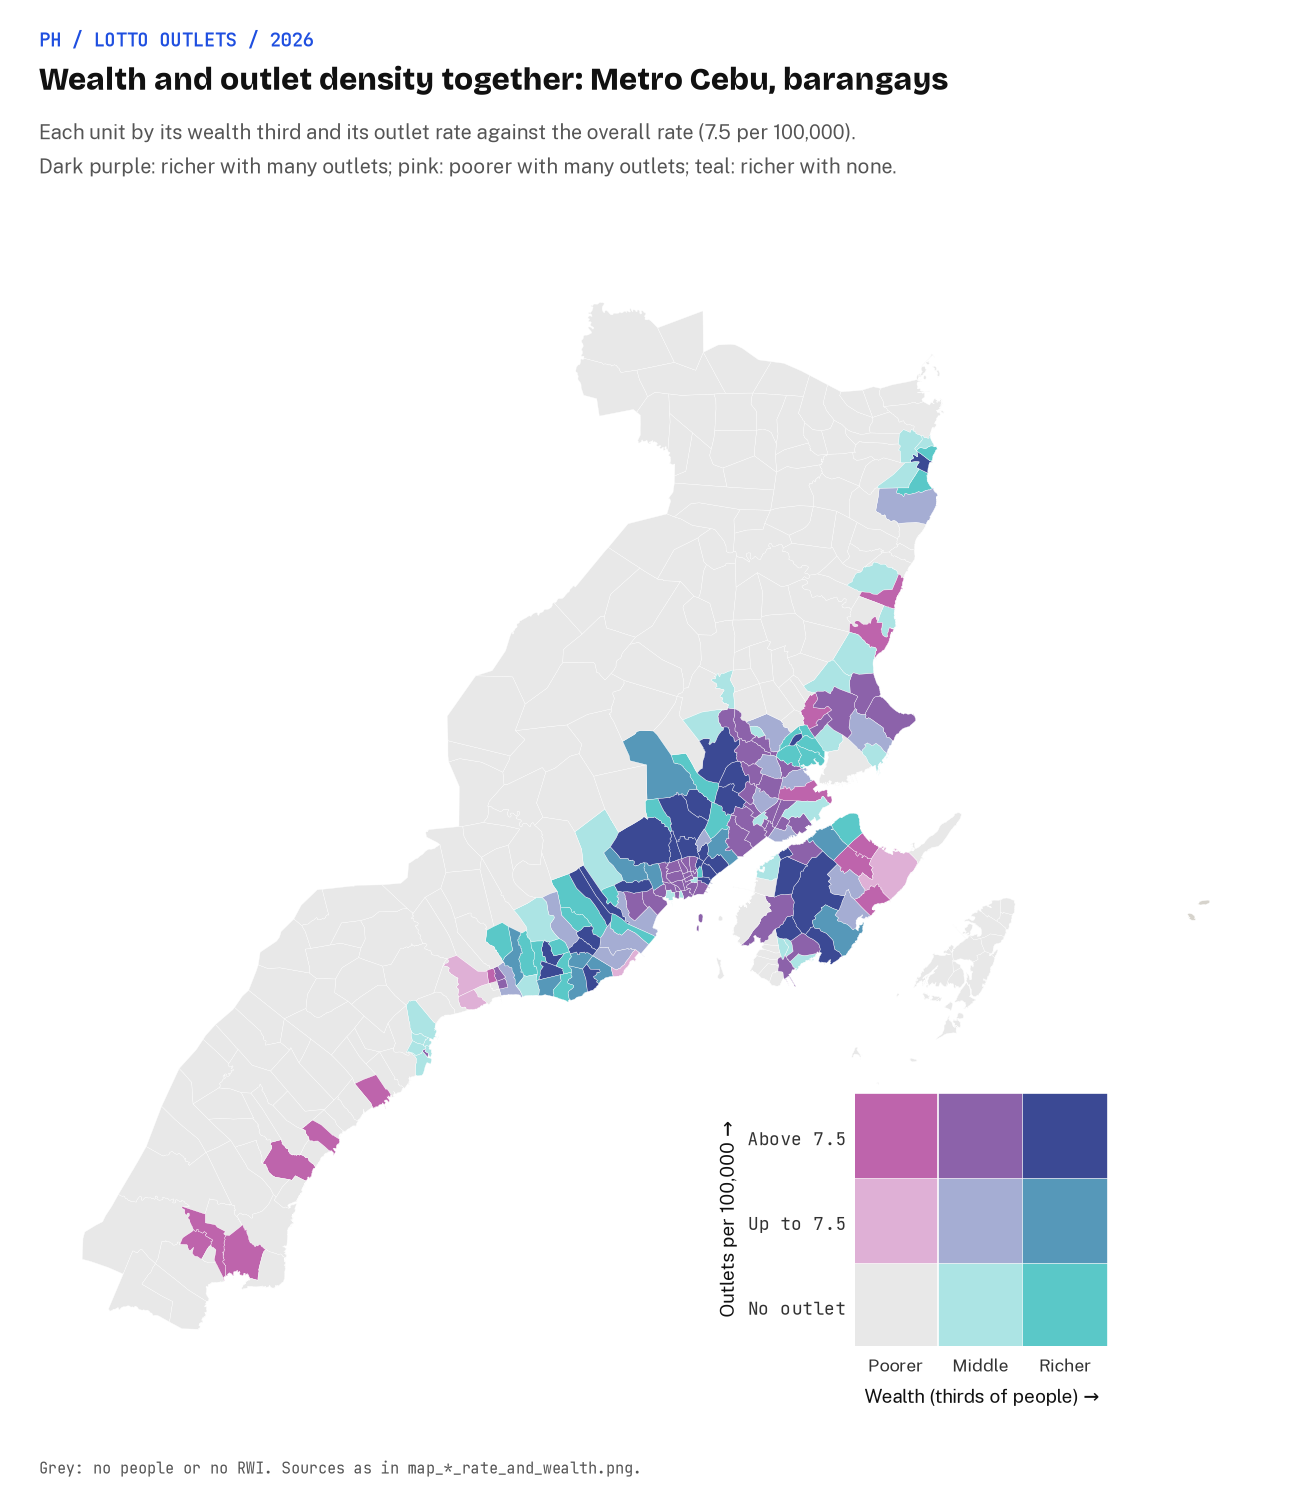
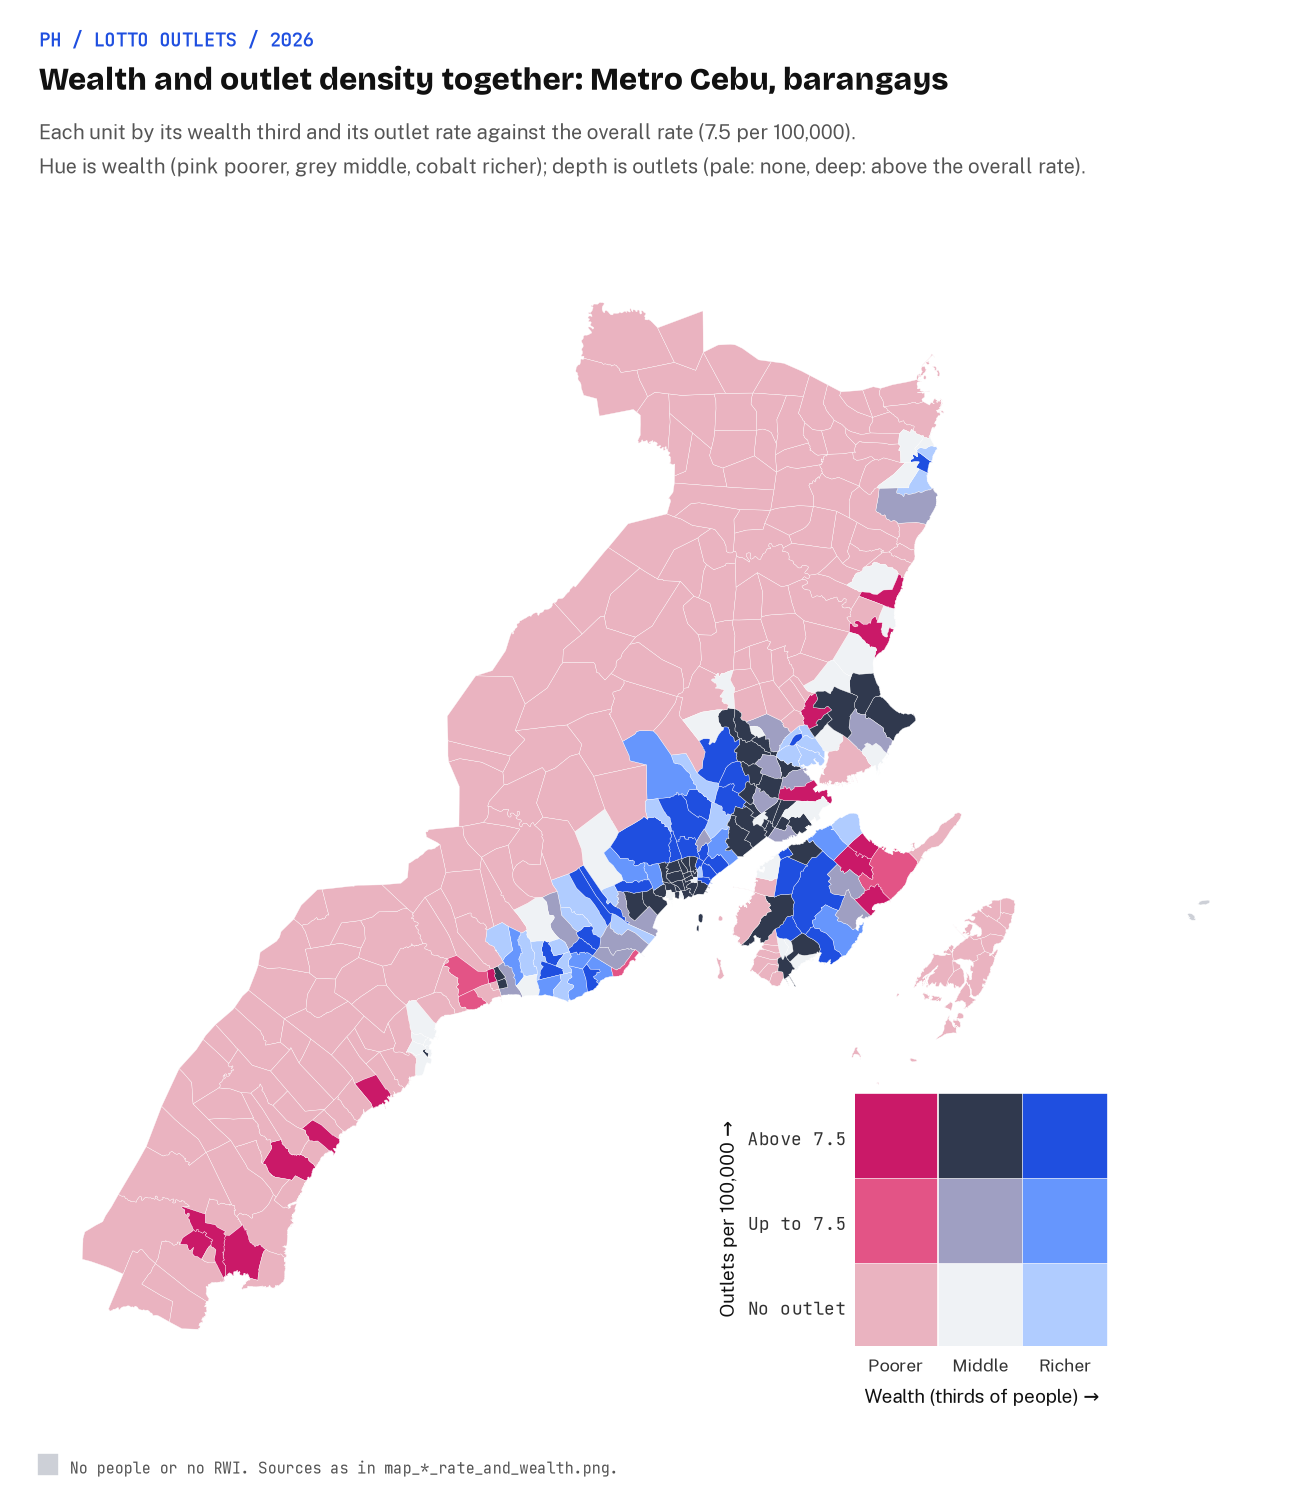
feat: Riso data palette for the static and web maps
- Put the Atlas data palette (Riso: cobalt and fluoro pink, cool greys) in src/shared/atlas.py;
  map_layers.py takes the maps' colours from it.
- Write the web map's colours to docs/map/palette.js from map_layers.py, so both maps share one
  palette.
- Tune the bivariate middle column (a faint cool tint) and pale cells so every pair of the 9
  cells is 8.8 or more apart in all four visions (was 4.2), checked by src/shared/palette_check.py.
- Residual hot spots use cobalt, sky, pink and amber, with no teal beside the pink.
- Redraw the eight maps and update the captions and readings that name colours.

diff --git a/docs/map/index.html b/docs/map/index.html
@@ -114,6 +114,8 @@ body.embed .standalone{display:none}
 </aside>
 <div id="map"></div>
 
+<!-- RATE, RWI, BIV and LISA: the Atlas data palette, written from src/shared/map_layers.py -->
+<script src="palette.js"></script>
 <script>
 // ?embed: shown inside the story page, which carries the title and the model table
 if (new URLSearchParams(location.search).has("embed")) document.body.classList.add("embed");
@@ -122,15 +124,10 @@ const protocol = new pmtiles.Protocol();
 maplibregl.addProtocol("pmtiles", protocol.tile);
 const here = (p) => "pmtiles://" + new URL(p, location.href).href;
 
-const RATE = ["#e7e1d3", "#cde2fb", "#9ec5f4", "#5598e7", "#256abf", "#104281"];
 const RATE_BREAKS = [5, 10, 20, 40];
-const RWI = ["#8c510a", "#d8b365", "#f6e8c3", "#f0efec", "#c7eae5", "#5ab4ac", "#01665e"];
 const RWI_BREAKS = [-0.75, -0.35, -0.1, 0.1, 0.35, 0.75];
-// Wealth tercile (w1 poorest .. w3 richest) x outlet level (o0 none, o1 at or below the
-// scope's overall rate, o2 above it)
-const BIV = {w1o0:"#e8e8e8", w2o0:"#ace4e4", w3o0:"#5ac8c8", w1o1:"#dfb0d6", w2o1:"#a5add3",
-             w3o1:"#5698b9", w1o2:"#be64ac", w2o2:"#8c62aa", w3o2:"#3b4994"};
-const LISA = {"High-High":"#d7191c", "Low-Low":"#2c7bb6", "High-Low":"#fdae61", "Low-High":"#abd9e9"};
+// BIV keys: wealth tercile (w1 poorest .. w3 richest) x outlet level (o0 none, o1 at or below
+// the scope's overall rate, o2 above it)
 
 function fill(measure) {
   if (measure === "rate") {

diff --git a/docs/map/palette.js b/docs/map/palette.js
@@ -1,0 +1,5 @@
+// Written by src/04_build_map/write_web_palette.py from src/shared/map_layers.py; do not edit.
+const RATE = ["#EBECEF", "#A6C4FF", "#739EFC", "#4577F0", "#1F4FE0", "#173295"];
+const RWI = ["#CA1968", "#ED5F90", "#FCBDCD", "#EDEEF1", "#C3D8FF", "#6E9BFB", "#1F4FE0"];
+const BIV = {"w1o0": "#EAB3C0", "w2o0": "#EFF2F5", "w3o0": "#B0CCFF", "w1o1": "#E35486", "w2o1": "#9F9FC2", "w3o1": "#6696FD", "w1o2": "#CA1968", "w2o2": "#30394E", "w3o2": "#1F4FE0"};
+const LISA = {"High-High": "#1F4FE0", "High-Low": "#3FA7D6", "Low-Low": "#E8407A", "Low-High": "#E8A317"};

diff --git a/src/shared/palette_check.py b/src/shared/palette_check.py
@@ -1,0 +1,85 @@
+#!/usr/bin/env python3
+"""
+Colour-blind checks for the map palette in map_layers.py, the method of the Atlas palette
+review (4 Nov 2026):
+
+- Colour difference is Euclidean distance in OKLab x 100 (about 1 is a just-visible step).
+- Colour-blind vision is simulated with Machado, Oliveira and Fernandes (2009) at severity 100,
+  through colorspacious, for deuteranopia, protanopia and tritanopia.
+- Each check reports its worst case across normal vision and the three simulations.
+  8 or more is the target, 6 to 8 the floor.
+
+Checks: the outlet ramp (light to dark in every vision, closest adjacent steps), the wealth
+scale (closest adjacent steps, the two poles at matching depth), the 9 bivariate cells (closest
+pair), and the categorical set (closest adjacent pair, and the closest pair among the colours a
+map puts side by side).
+
+Usage:  .venv/bin/python src/shared/palette_check.py
+"""
+import itertools
+import warnings
+
+import numpy as np
+from colorspacious import cspace_convert
+
+import atlas
+import map_layers as ml
+
+VISIONS = {"normal": None, "deutan": "deuteranomaly", "protan": "protanomaly", "tritan": "tritanomaly"}
+_M1 = np.array([[0.4122214708, 0.5363325363, 0.0514459929], [0.2119034982, 0.6806995451, 0.1073969566],
+                [0.0883024619, 0.2817188376, 0.6299787005]])
+_M2 = np.array([[0.2104542553, 0.7936177850, -0.0040720468], [1.9779984951, -2.4285922050, 0.4505937099],
+                [0.0259040371, 0.7827717662, -0.8086757660]])
+
+
+def _oklab(hex_colour, vision):
+    rgb = np.array([int(hex_colour.lstrip("#")[i:i + 2], 16) / 255 for i in (0, 2, 4)])
+    if VISIONS[vision]:
+        with warnings.catch_warnings():
+            warnings.simplefilter("ignore")
+            rgb = cspace_convert(rgb, {"name": "sRGB1+CVD", "cvd_type": VISIONS[vision], "severity": 100}, "sRGB1")
+        rgb = np.clip(rgb, 0, 1)
+    lin = np.where(rgb <= 0.04045, rgb / 12.92, ((rgb + 0.055) / 1.055) ** 2.4)
+    return _M2 @ np.cbrt(_M1 @ lin)
+
+
+def delta_e(a, b, vision="normal"):
+    return float(np.linalg.norm(_oklab(a, vision) - _oklab(b, vision)) * 100)
+
+
+def _worst(pairs):
+    """The smallest difference over the pairs and the four visions, with where it happens."""
+    return min((delta_e(a, b, v), f"{na}/{nb}", v) for (na, a), (nb, b) in pairs for v in VISIONS)
+
+
+def _named(colours):
+    return [(c, c) for c in colours]
+
+
+def checks(rate=None, rwi=None, biv=None, categorical=None, map_categorical=None, no_outlet=None):
+    rate = rate or ml.RATE
+    rwi = rwi or ml.RWI
+    biv = biv or ml.BIV
+    categorical = categorical or atlas.CATEGORICAL
+    map_categorical = map_categorical or list(ml.LISA.values())
+    no_outlet = no_outlet or ml.RATE_NONE
+    ramp = [no_outlet, *rate]
+    monotone = all(all(_oklab(b, v)[0] < _oklab(a, v)[0] for a, b in itertools.pairwise(ramp)) for v in VISIONS)
+    return {
+        "Outlet ramp light to dark in all 4 visions": "yes" if monotone else "no",
+        "Outlet ramp, closest adjacent steps": _worst(itertools.pairwise(_named(ramp))),
+        "Wealth scale, closest adjacent steps": _worst(itertools.pairwise(_named(rwi))),
+        "Wealth poles at matching depth": _worst([((rwi[i], rwi[i]), (rwi[-1 - i], rwi[-1 - i])) for i in range(3)]),
+        "Bivariate, closest of 9 cells": _worst(itertools.combinations(biv.items(), 2)),
+        "Categorical, adjacent": _worst(itertools.pairwise(_named(categorical))),
+        "Map categorical, any pair": _worst(itertools.combinations(_named(map_categorical), 2)),
+    }
+
+
+def show(results):
+    for name, r in results.items():
+        print(f"{name}: {r if isinstance(r, str) else f'{r[0]:.1f} ({r[2]}, {r[1]})'}")
+
+
+if __name__ == "__main__":
+    show(checks())

diff --git a/src/03_analyse/maps.py b/src/03_analyse/maps.py
@@ -151,13 +151,16 @@ def bivariate_map(scope):
         fig = _figure(SIZE[scope][1])
         top = atlas.heading(fig, f"Wealth and outlet density together: {TITLE[scope]}",
                             "Each unit by its wealth third and its outlet rate against the overall rate "
-                            f"({overall:.1f} per 100,000).\nDark purple: richer with many outlets; pink: poorer "
-                            "with many outlets; teal: richer with none.", x=0.03)
+                            f"({overall:.1f} per 100,000).\nHue is wealth (pink poorer, grey middle, cobalt richer); "
+                            "depth is outlets (pale: none, deep: above the overall rate).", x=0.03)
         ax = fig.add_axes((0.02, 0.05, 0.96, top - 0.06))
         _draw(ax, g, colours, scope)
         _bivariate_key(fig, KEY[scope], overall)
-        fig.text(0.03, 0.015, "Grey: no people or no RWI. Sources as in map_*_rate_and_wealth.png.",
-                 color=atlas.MUTED, **atlas.mono(6.5))
+        h = 0.11 / fig.get_figheight()  # a swatch about 0.11 inch high, as tall as the text
+        fig.patches.append(Rectangle((0.03, 0.015), h * fig.get_figheight() / fig.get_figwidth(), h,
+                                     transform=fig.transFigure, color=NO_PEOPLE, figure=fig))
+        fig.text(0.03 + 0.18 / fig.get_figwidth(), 0.015, "No people or no RWI. Sources as in "
+                 "map_*_rate_and_wealth.png.", color=atlas.MUTED, **atlas.mono(6.5))
         path = FIGURES / f"map_{scope}_bivariate.png"
         fig.savefig(path, dpi=DPI[scope])
     return path

diff --git a/src/shared/atlas.py b/src/shared/atlas.py
@@ -23,6 +23,21 @@ FONTS = Path(__file__).resolve().parent / "fonts"
 BG, INK, INK_SOFT, MUTED = "#FFFFFF", "#111111", "#333333", "#555555"
 ACCENT, GRID, RULE = "#1F4FE0", "#F3F5FB", "#DADDE6"
 
+# The Atlas data palette, Riso: cobalt for more and richer, fluoro pink for poorer, cool greys.
+# Chosen 4 Nov 2026; the colour-blind checks are in palette_check.py. The maps (static and web)
+# take theirs through map_layers.py.
+SEQUENTIAL = ["#DCE9FF", "#A6C4FF", "#739EFC", "#4577F0", "#1F4FE0", "#173295"]  # light to dark cobalt
+DIVERGING = ["#CA1968", "#ED5F90", "#FCBDCD", "#EDEEF1", "#C3D8FF", "#6E9BFB", "#1F4FE0"]  # pink poorer, cobalt richer
+# Wealth third (w1 poorest .. w3 richest) x outlet level (o0 none, o1 up to the overall rate, o2 above).
+# The middle column is a faint cool tint and the pale and mid cells are tuned off the review's
+# values so every pair stays 8 or more apart in all four visions (palette_check.py).
+BIVARIATE = {"w1o0": "#EAB3C0", "w2o0": "#EFF2F5", "w3o0": "#B0CCFF",
+             "w1o1": "#E35486", "w2o1": "#9F9FC2", "w3o1": "#6696FD",
+             "w1o2": "#CA1968", "w2o2": "#30394E", "w3o2": "#1F4FE0"}
+# In this order for charts; a map's categories never put pink (2) beside teal (4)
+CATEGORICAL = ["#1F4FE0", "#E8407A", "#E8A317", "#0F9D8A", "#9C3F8F", "#3FA7D6"]
+NO_OUTLET, NO_PEOPLE = "#EBECEF", "#CDD0D7"
+
 HEAD, BODY, MONO = "Bricolage Grotesque", "Public Sans", "JetBrains Mono"
 _FALLBACK = {HEAD: "DejaVu Sans", BODY: "DejaVu Sans", MONO: "DejaVu Sans Mono"}
 _registered = None

diff --git a/src/shared/map_layers.py b/src/shared/map_layers.py
@@ -10,16 +10,21 @@ import numpy as np
 import pandas as pd
 from shapely.geometry import box
 
+import atlas
 from analysis_samples import weighted_quintile
 from common import Z
 
-# Colours, as in docs/map/index.html
-RATE_NONE = "#e7e1d3"  # people but no outlet
-RATE = ["#cde2fb", "#9ec5f4", "#5598e7", "#256abf", "#104281"]  # light to dark blue
-RWI = ["#8c510a", "#d8b365", "#f6e8c3", "#f0efec", "#c7eae5", "#5ab4ac", "#01665e"]  # poorer brown, richer teal
-BIV = {"w1o0": "#e8e8e8", "w2o0": "#ace4e4", "w3o0": "#5ac8c8", "w1o1": "#dfb0d6", "w2o1": "#a5add3",
-       "w3o1": "#5698b9", "w1o2": "#be64ac", "w2o2": "#8c62aa", "w3o2": "#3b4994"}
-NO_PEOPLE = "#d6d3cc"
+# Colours: the Atlas data palette (atlas.py), shared with the web map through docs/map/palette.js,
+# which src/04_build_map/write_web_palette.py writes from these
+RATE_NONE = atlas.NO_OUTLET  # people but no outlet
+RATE = atlas.SEQUENTIAL[1:]  # five classes, light to dark cobalt
+RWI = atlas.DIVERGING  # seven steps, poorer pink to richer cobalt
+BIV = atlas.BIVARIATE
+NO_PEOPLE = atlas.NO_PEOPLE
+# Local Moran's I clusters of the model residuals (web map only): cobalt and sky for more outlets
+# than modelled, pink and amber for fewer; no teal, so pink never sits beside it
+LISA = {"High-High": atlas.CATEGORICAL[0], "High-Low": atlas.CATEGORICAL[5], "Low-Low": atlas.CATEGORICAL[1],
+        "Low-High": atlas.CATEGORICAL[2]}
 
 
 def tile_xy(quadkeys):

diff --git a/src/04_build_map/write_web_palette.py b/src/04_build_map/write_web_palette.py
@@ -1,0 +1,30 @@
+#!/usr/bin/env python3
+"""
+Write docs/map/palette.js, the web map's colours, from src/shared/map_layers.py, so the web map
+and the static maps share one palette (the Atlas data palette in src/shared/atlas.py).
+
+The map tiles carry each unit's classes, not colours, so a palette change needs only this file,
+not new tiles. Run by 04_build_map.sh; also runs on its own:
+  .venv/bin/python src/04_build_map/write_web_palette.py
+"""
+import json
+import sys
+from pathlib import Path
+
+sys.path.insert(0, str(Path(__file__).resolve().parents[1] / "shared"))
+
+import map_layers as ml
+
+OUT = Path(__file__).resolve().parents[2] / "docs" / "map" / "palette.js"
+
+PALETTE = {
+    "RATE": [ml.RATE_NONE, *ml.RATE],  # no outlet, then five rate classes
+    "RWI": ml.RWI,
+    "BIV": ml.BIV,
+    "LISA": ml.LISA,
+}
+
+lines = ["// Written by src/04_build_map/write_web_palette.py from src/shared/map_layers.py; do not edit."]
+lines += [f"const {name} = {json.dumps(value)};" for name, value in PALETTE.items()]
+OUT.write_text("\n".join(lines) + "\n")
+print(f"wrote {OUT.relative_to(OUT.parents[2])}")

diff --git a/docs/paper.md b/docs/paper.md
@@ -404,7 +404,7 @@ Data: PCSO's published outlet map; Meta / Data for Good Relative Wealth Index vi
 
 The code sits in one folder per phase under [`src/`](../src/), named after the phase script at the repo root that runs it (section 10).
 The analysis is five narrative notebooks in [`notebooks/`](../notebooks/), committed with their outputs so each table and chart sits beside a short reading of it; their logic lives as functions in [`src/03_analyse/`](../src/03_analyse/) (`outlet_rates.py`, `count_models.py`, `road_distance.py`, `pcso_cy2023.py`, `charts.py`, `maps.py`), which the notebooks import; `pcso_background.py` draws the two background charts in section 1 from figures typed in from their sources.
-Shared helpers are in [`src/shared/`](../src/shared/) (`common.py` paths and grid helpers, `analysis_samples.py` the analysis samples, `stats_tools.py` model and spatial helpers, `map_layers.py` the classes and colours the static and web maps share, `atlas.py` the story site's Atlas Grid style for every static chart and map, with its fonts committed in `fonts/`, `run_notebook.py` the notebook runner `03_analyse.sh` uses, `setup.sh` the phase scripts' setup); each script adds that folder to Python's import path itself, so any script also runs on its own.
+Shared helpers are in [`src/shared/`](../src/shared/) (`common.py` paths and grid helpers, `analysis_samples.py` the analysis samples, `stats_tools.py` model and spatial helpers, `map_layers.py` the classes and colours the static and web maps share, `atlas.py` the story site's Atlas Grid style and its Riso data palette for every chart and map, with its fonts committed in `fonts/`, `palette_check.py` the palette's colour-blind checks, `run_notebook.py` the notebook runner `03_analyse.sh` uses, `setup.sh` the phase scripts' setup); each script adds that folder to Python's import path itself, so any script also runs on its own.
 
 | Phase script | Step | Script | Writes |
 |---|---|---|---|
@@ -420,6 +420,7 @@ Shared helpers are in [`src/shared/`](../src/shared/) (`common.py` paths and gri
 | | Road distance to the nearest outlet by wealth quintile | [`notebooks/04_road_distance.ipynb`](../notebooks/04_road_distance.ipynb) | `results/tables/` |
 | | Static choropleth maps of outlet density beside wealth | [`notebooks/05_maps.ipynb`](../notebooks/05_maps.ipynb) | `results/figures/` |
 | `04_build_map.sh` | Web map vector tiles | [`build_map_tiles.py`](../src/04_build_map/build_map_tiles.py) | `docs/map/data/` |
+| | Web map colours, from `map_layers.py` | [`write_web_palette.py`](../src/04_build_map/write_web_palette.py) | `docs/map/palette.js` |
 
 ## Appendix B. Every figure and table
 
